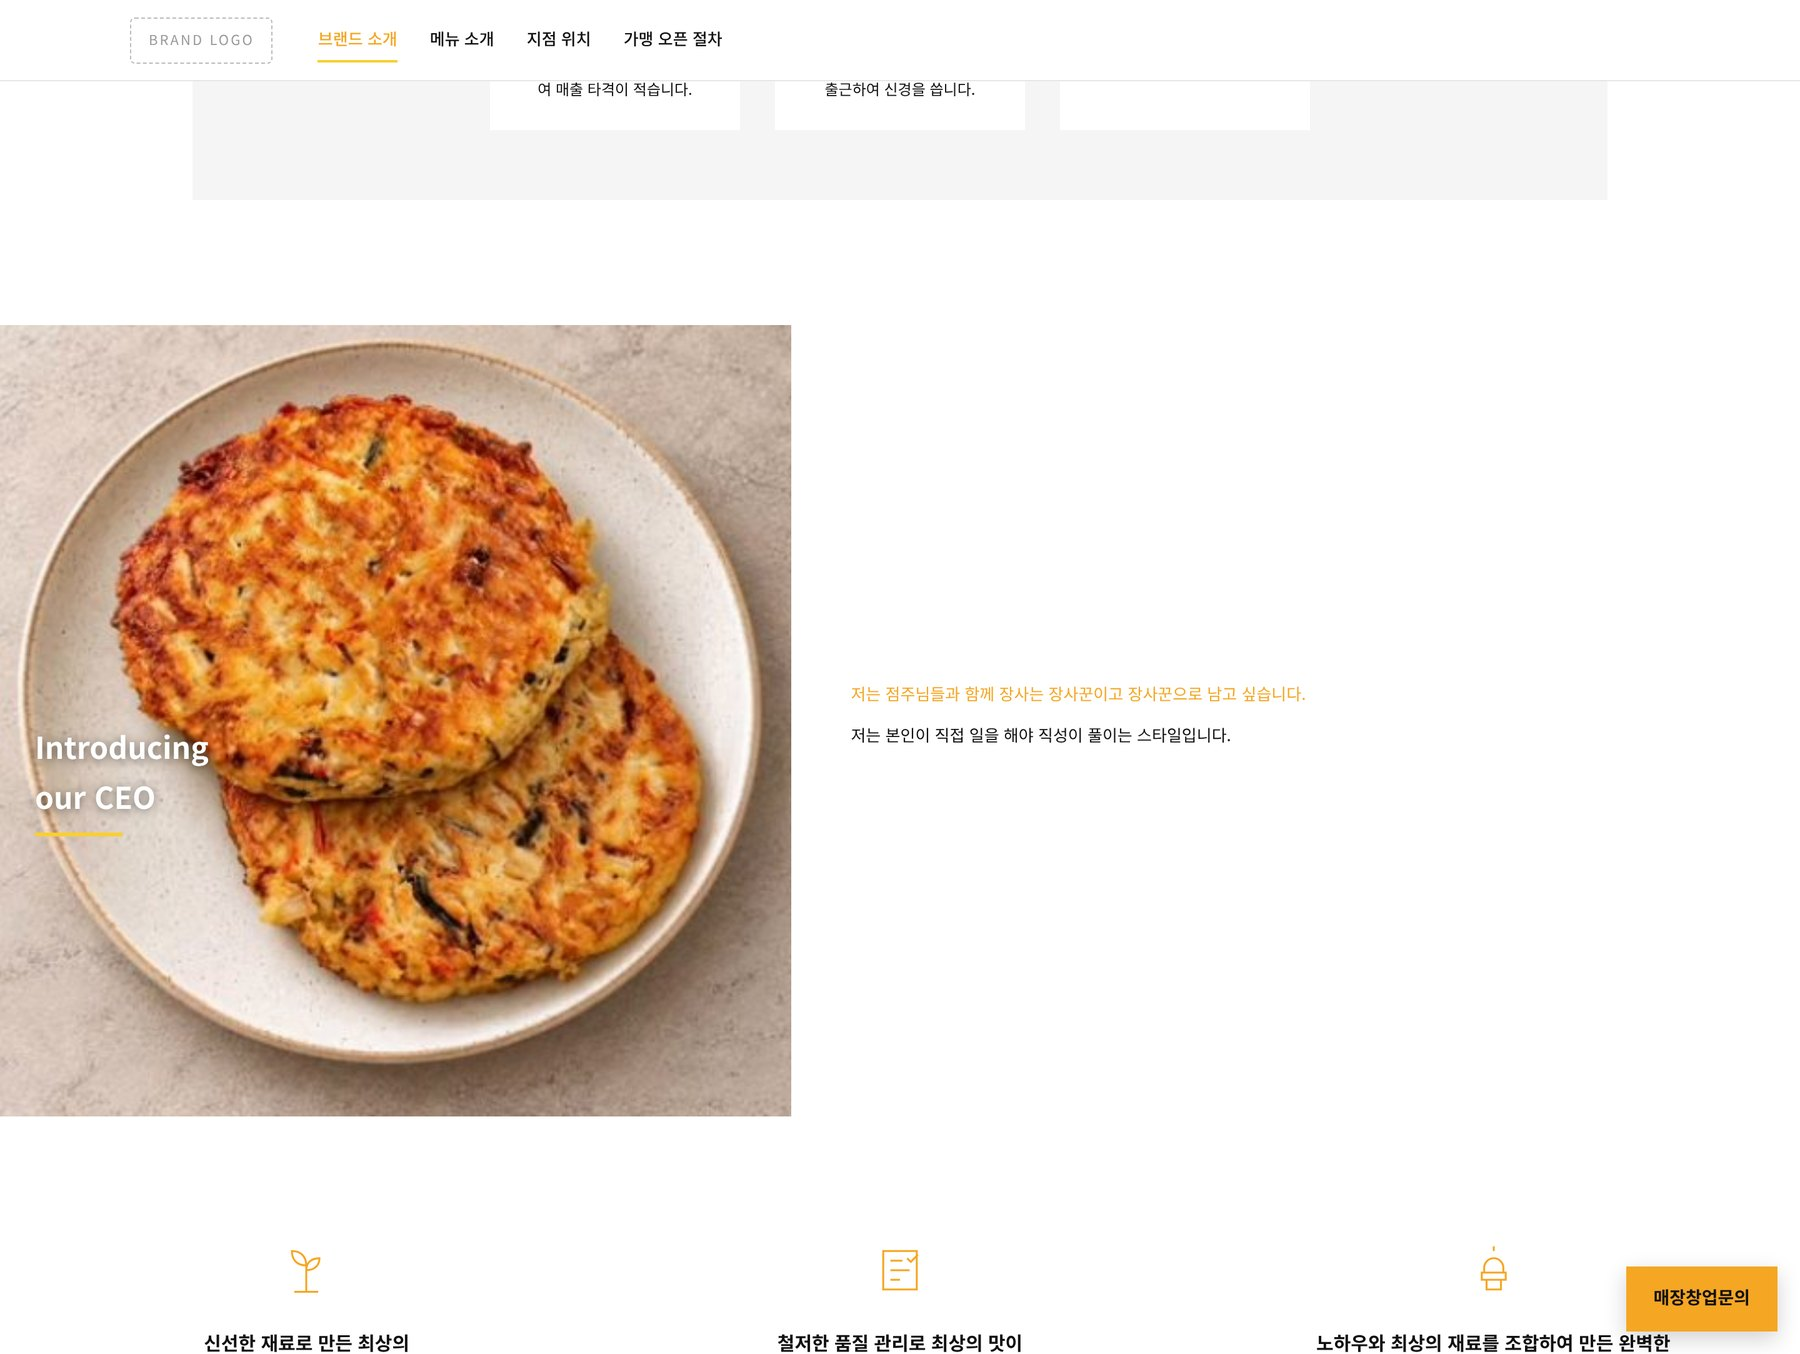
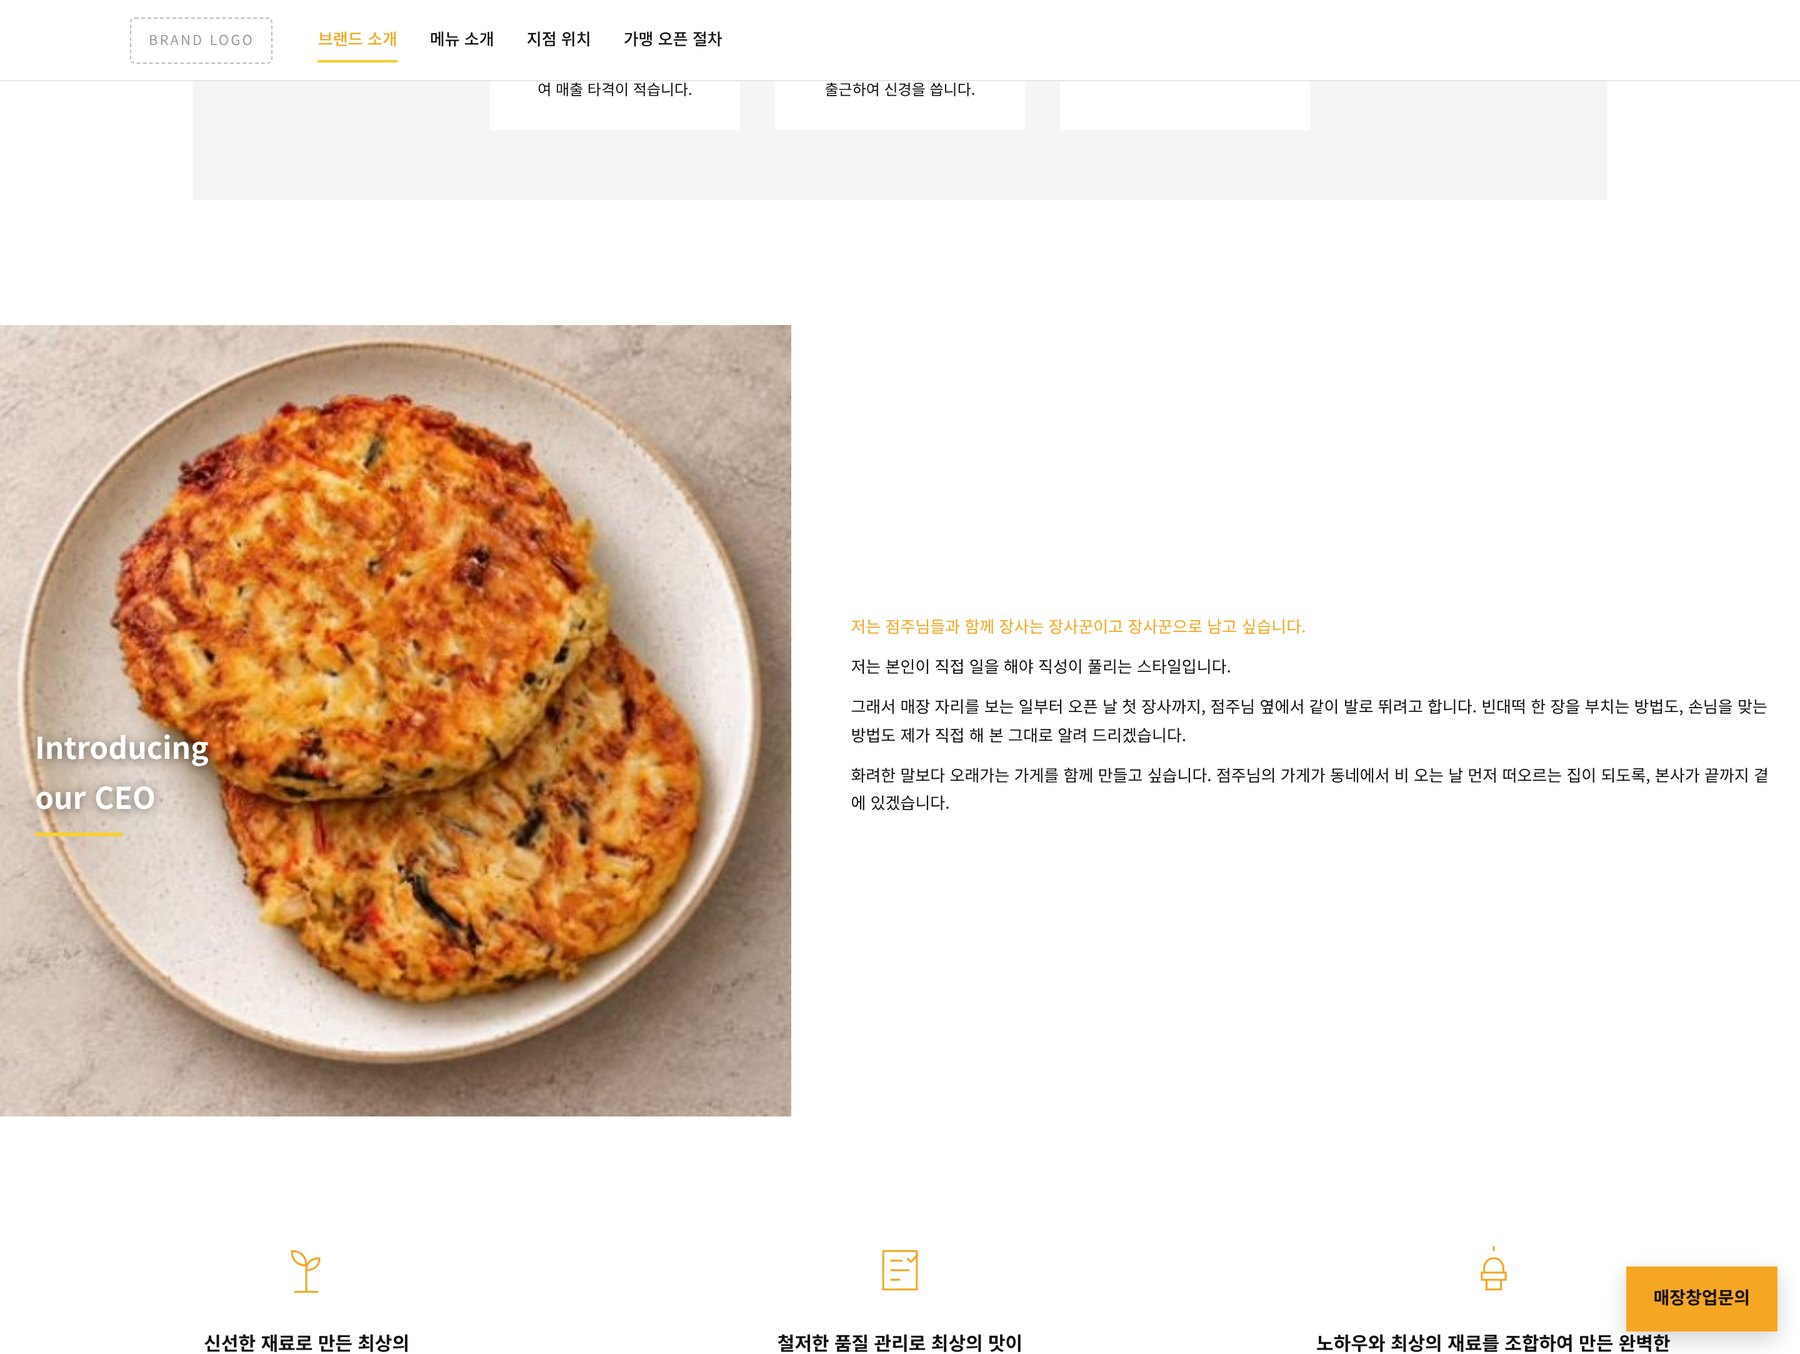
더종로 재현본: 대표 인사말 나머지와 찌개류·전 메뉴 설명 채움
Claude-Session: https://claude.ai/code/session_01XSHgxRY5odQdqSLMNjPAFn

Changed region(s): [[0.4667, 0.4343, 0.9644, 0.6204]]

diff --git a/jongro-layout/index.html b/jongro-layout/index.html
@@ -116,7 +116,7 @@ footer{background:var(--y);padding:56px 0 36px;font-size:12px}
  </div>
  <div class="ceo">
   <div class="pic"><img src="img/jeon2.jpg" alt=""><h3>Introducing<br>our CEO</h3></div>
-  <div><p class="lead">저는 점주님들과 함께 장사는 장사꾼이고 장사꾼으로 남고 싶습니다.</p><p>저는 본인이 직접 일을 해야 직성이 풀이는 스타일입니다.</p></div>
+  <div><p class="lead">저는 점주님들과 함께 장사는 장사꾼이고 장사꾼으로 남고 싶습니다.</p><p>저는 본인이 직접 일을 해야 직성이 풀리는 스타일입니다.</p><p>그래서 매장 자리를 보는 일부터 오픈 날 첫 장사까지, 점주님 옆에서 같이 발로 뛰려고 합니다. 빈대떡 한 장을 부치는 방법도, 손님을 맞는 방법도 제가 직접 해 본 그대로 알려 드리겠습니다.</p><p>화려한 말보다 오래가는 가게를 함께 만들고 싶습니다. 점주님의 가게가 동네에서 비 오는 날 먼저 떠오르는 집이 되도록, 본사가 끝까지 곁에 있겠습니다.</p></div>
  </div>
  <div class="feat">
   <div><svg viewBox="0 0 48 48"><path d="M24 42V20M24 20c-8 0-12-5-12-12 7 0 12 4 12 12ZM24 24c7 0 11-4 11-10-6 0-11 3-11 10ZM14 42h20"/></svg><b>신선한 재료로 만든 최상의<br>퀄리티 빈대떡</b><p>"매일매일 신선한 재료로 만들어내는 최상급<br>퀄리티의 빈대떡은 우리만의 자부심입니다."</p></div>
@@ -176,6 +176,15 @@ const D={
  '두부전':'큼직하게 썬 손두부에 계란물을 입혀 노릇하게 부쳤습니다. 고소하고 부드러운 맛으로 편안하게 즐기는 전입니다.',
  '감자전':'감자를 직접 갈아 바삭하게 부쳤습니다. 감자 본연의 담백함과 쫀득한 식감이 매력적인 전입니다.',
  '담백한 박대구이':'박대를 노릇하게 구워 담았습니다. 담백한 생선살과 고소한 풍미를 즐기는 구이 메뉴입니다.',
+ '깻잎전':'향긋한 깻잎 사이에 양념한 고기소를 채워 노릇하게 부쳤습니다. 한입에 깻잎 향과 고소함이 함께 퍼집니다.',
+ '김치전(고기, 해물)':'잘 익은 김치에 고기나 해물을 골라 넣어 바삭하게 부쳤습니다. 막걸리와 가장 잘 어울리는 전입니다.',
+ '야채부추전':'부추와 갖은 야채를 듬뿍 넣어 얇고 바삭하게 부쳤습니다. 가볍게 곁들이기 좋은 전입니다.',
+ '생고기 고추장 찌개':'생고기를 큼직하게 썰어 넣고 고추장 양념으로 칼칼하게 끓였습니다. 진한 국물에 밥 한 공기가 절로 생각나는 찌개입니다.',
+ '돼지 김치찌개':'푹 익은 김치와 두툼한 돼지고기를 함께 끓였습니다. 시원하고 깊은 맛으로 전과 함께 곁들이기 좋습니다.',
+ '두부젓국(지리)':'두부와 새우젓으로 맑게 끓인 국물입니다. 자극적이지 않고 개운해서 기름진 전과 잘 어울립니다.',
+ '육개장 전골':'소고기와 대파, 고사리를 듬뿍 넣어 얼큰하게 끓였습니다. 여럿이 나눠 먹기 좋은 전골입니다.',
+ '백합탕':'백합을 넉넉히 넣어 맑게 끓였습니다. 조개에서 우러난 시원한 국물이 특징입니다.',
+ '국물 요리':'그날그날 준비한 재료로 끓여 내는 국물 요리입니다. 술안주로도, 식사로도 부담 없이 즐길 수 있습니다.',
  '삼치 구이':'삼치를 노릇하게 구웠습니다. 부드러운 살과 담백하고 고소한 맛을 함께 즐겨보세요.',
  '노르웨이 고등어 구이':'노르웨이 고등어를 노릇하게 구웠습니다. 촉촉한 살과 풍부한 고소함이 어우러지는 생선구이입니다.'
 };
